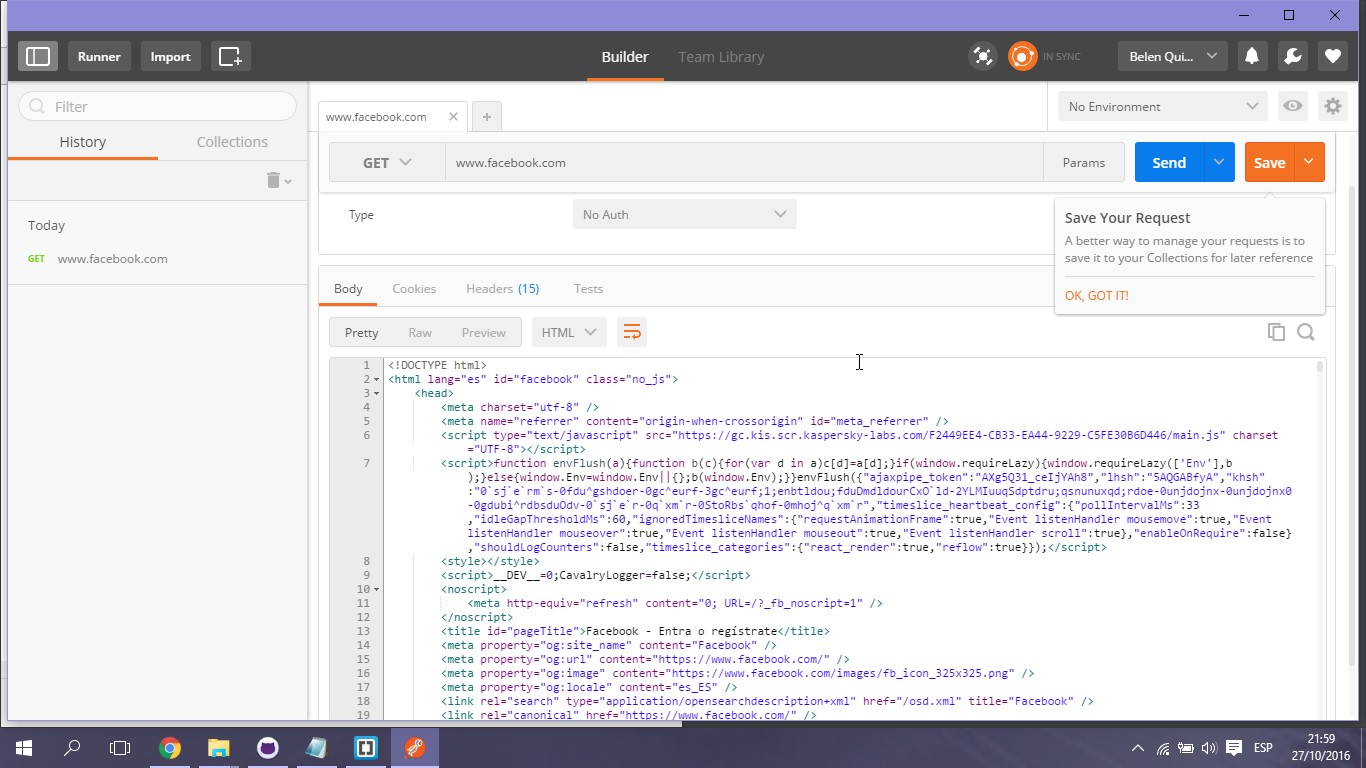
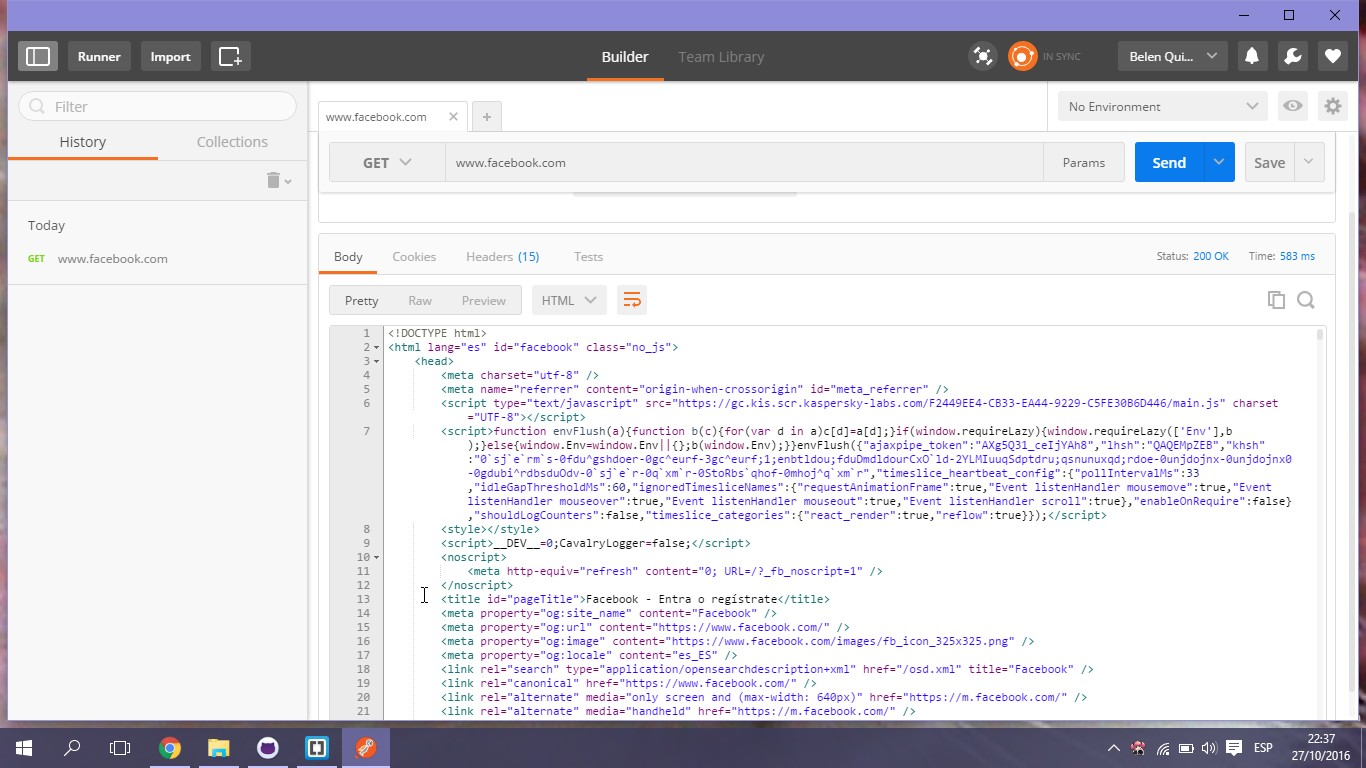
Ultimas modificaciones del informe

Changed region(s): [[0.0, 0.0, 1.0, 1.0], [0.4305, 0.25, 0.4612, 0.3125]]

diff --git a/HTML/index.html b/HTML/index.html
@@ -1,7 +1,7 @@
 <!DOCTYPE html>
 
 <!--ESTILO CSS propiedadCSS:valorPropiedadCSS-->
-<html lang="en" style="background-color: #ddd">
+<html lang="en" style="background-color: #aba">
 
 <head>
     <meta charset="UTF-8">
@@ -16,6 +16,28 @@
     <p style="background-color: #fef999;">Saint Seiya (聖闘士星矢, Seinto Seiya?), conocido en español como Los Caballeros del Zodiaco, es un manga shōnen creado en 1986 por Masami Kurumada y publicado originalmente desde enero del mismo año en la revista Shūkan Shōnen Jump de la editorial Shūeisha hasta diciembre de 1990.
     
     </p>
+<!--    Lista desordenada-->
+    <h2>Lista Desordenada</h2>
+    <ul>
+
+    <li>Saint Seiya</li>
+
+    <li>Aioria</li>
+
+    <li>Shiryu</li>
+</ul>
+    
+<!--    Lista ordenada -->
+    
+    <h2>Lista Ordenada</h2>
+    <ol>
+
+    <li>Saint Seiya</li>
+
+    <li>Aioria</li>
+
+    <li>Shiryu</li>
+</ol>
     <h2>Cabezera menos Grande</h2>
     <h3>Cabezera mediana</h3>
     <h4>Cabezera pequeña</h4>

diff --git a/HTML/INFORME/README.md b/HTML/INFORME/README.md
@@ -262,9 +262,93 @@ A continuación se proporciona una lista de los números con los cuales empiensa
   <p align="center">  <img src="IMAGENES/facebook.jpg" > </p>
  En la imagen anterior se puede ver:
  * La información que se observa en la sección `Body` corresponde al código HTML de la página.
- * También se puede ver que el Status Code devolvió `200 OK` y el tiempo que se demoró  fue `1192 ms`.
+ * También se puede ver en la parte superior que el Status Code devolvió `200 OK` y el tiempo que se demoró  fue de `583 ms`.
  
+  10. Ahora en la pestaña `Headers`, se encuentran las 15 cabeceras, las cuales nos muestra cierta información, tal como:
+   * `content-type` es una cabecera que muestra el tipo del documento, en este caso es un documento de texto HTML.
+    * `date` muestra la hora y fecha actual 
+    * `status` muestra el Status Code de HTTP.
+    <p align="center">  <img src="IMAGENES/facebook-H.jpg" > </p>
+  11. Si se cambia el método HTTP, no siempre se obtiene los mismos resultados. Por ejemplo si se cambia `GET` por `PATCH` nos muestra un código de error en el Status Code. Así como se ve en la siguiente imagen.
+  <p align="center">  <img src="IMAGENES/facebook-patch.jpg" > </p>
+  
+  12. Una vez entendido que elemntos puede tener una página web en HTML se procede a crear una. Para esto se crea un archivo con extensión `.html` y su nombre es `index`.
+  
+  <p align="center">  <img src="IMAGENES/indexHTML.jpg" > </p>
+  
+  13. Ahora se procede a escribir el código de la página HTML. En este caso el código de la página se encuentra en <a href="https://github.com/belenquispi/Tec_Web_Js/blob/01-HTML/HTML/index.html">Código HTML</a>. Al crear este código se han empleado los tags explicados en en <a href="#tagHtml">Etiquetas de HTML</a>
+  
+  ### Detalles del códifo HTML
+  ---
+  `<html lang="en" style="background-color: #aba">`
+   * `lang="en"` da entender que el lenguaje de la página es inglés.
+   *  `style="background-color: #aba"`permive saber que el color de fonfo de la páguina es:#aba.
+   
+---
+   
+  `<meta charset="UTF-8">`
+  - Da a entender que el código con el cual se esta codificando es UTF-8
+  
+---
+   
+  `<title>Aprendiendo HTML</title>`
+ - Muestra que el título de la página es: `Aprendiendo HTML`
+ 
+---
 
+   `<body style="background-color: #fefefe;">`
+   - Muestra que el color del body de la  página es: `#fefefe`
+    
+---
+
+   `<h1>Caballeros del Zodiaco</h1>`
+  * Es el título que tiene la fuente más de mayor tamaño.
+  
+---
+
+`<img src="https://static.betazeta.com/www.fayerwayer.com/up/2015/02/Armaduras-de-Caballeros-del-Zodiaco-en-tama%C3%B1o-real-llegar%C3%A1n-a-M%C3%A9xico-960x623.jpg" alt="Caballero"> `
+   * `<img>` permite insertar imágenes a la página HTML.
+   
+   * Y en `src` se escribe la dirección web de la imagen. 
+   * `alt` permite introducir u texto alternativo a la imagen. 
+   
+---
+`<p style="background-color: #fef999;">Saint Seiya (聖闘士星矢, Seinto Seiya?), conocido en español como Los Caballeros del Zodiaco, es un manga shōnen creado en 1986 por Masami Kurumada y publicado originalmente desde enero del mismo año en la revista Shūkan Shōnen Jump de la editorial Shūeisha hasta diciembre de 1990.</p>`
+
+* Es el párrafo que se va a encontrar en la página HTML.
+   
+---
+  `<ul>
+
+    <li>Saint Seiya</li>
+
+    <li>Aioria</li>
+
+    <li>Shiryu</li>
+</ul>`
+* Genera la lista con los datos recibidos , pero esta lista es no ordena.
+
+---
+<ol>
+
+    <li>Saint Seiya</li>
+
+    <li>Aioria</li>
+
+    <li>Shiryu</li>
+</ol>
+ * Genera una lista ordenada con los datos recibidos.
+
+---
+  14.  Levantamiento de un servidor HTTP en nuestra máquina, para ello se lleva a caso lo siguiente:  
+   * Dirigimos a la carpeta donde está index.html, presionamos SHIFT y hacemos clic derecho para seleccionar Abrir ventana de comandos aquí.
+   
+   <p align="center">  <img src="IMAGENES/abrirVentana.jpg" > </p>
+   
+   A continuación se escribe los siguiente comandos en la venta de comandos, con estos se levantará un servidor web. 
+    <p align="center">  <img src="IMAGENES/SERVER.jpg"> </p>
+     <p align="center">  <img src="IMAGENES/SERVER2.jpg" > </p>
+  
 <a name="conrec"></a>
 ## Conclusiones y Recomendaciónes 
 
